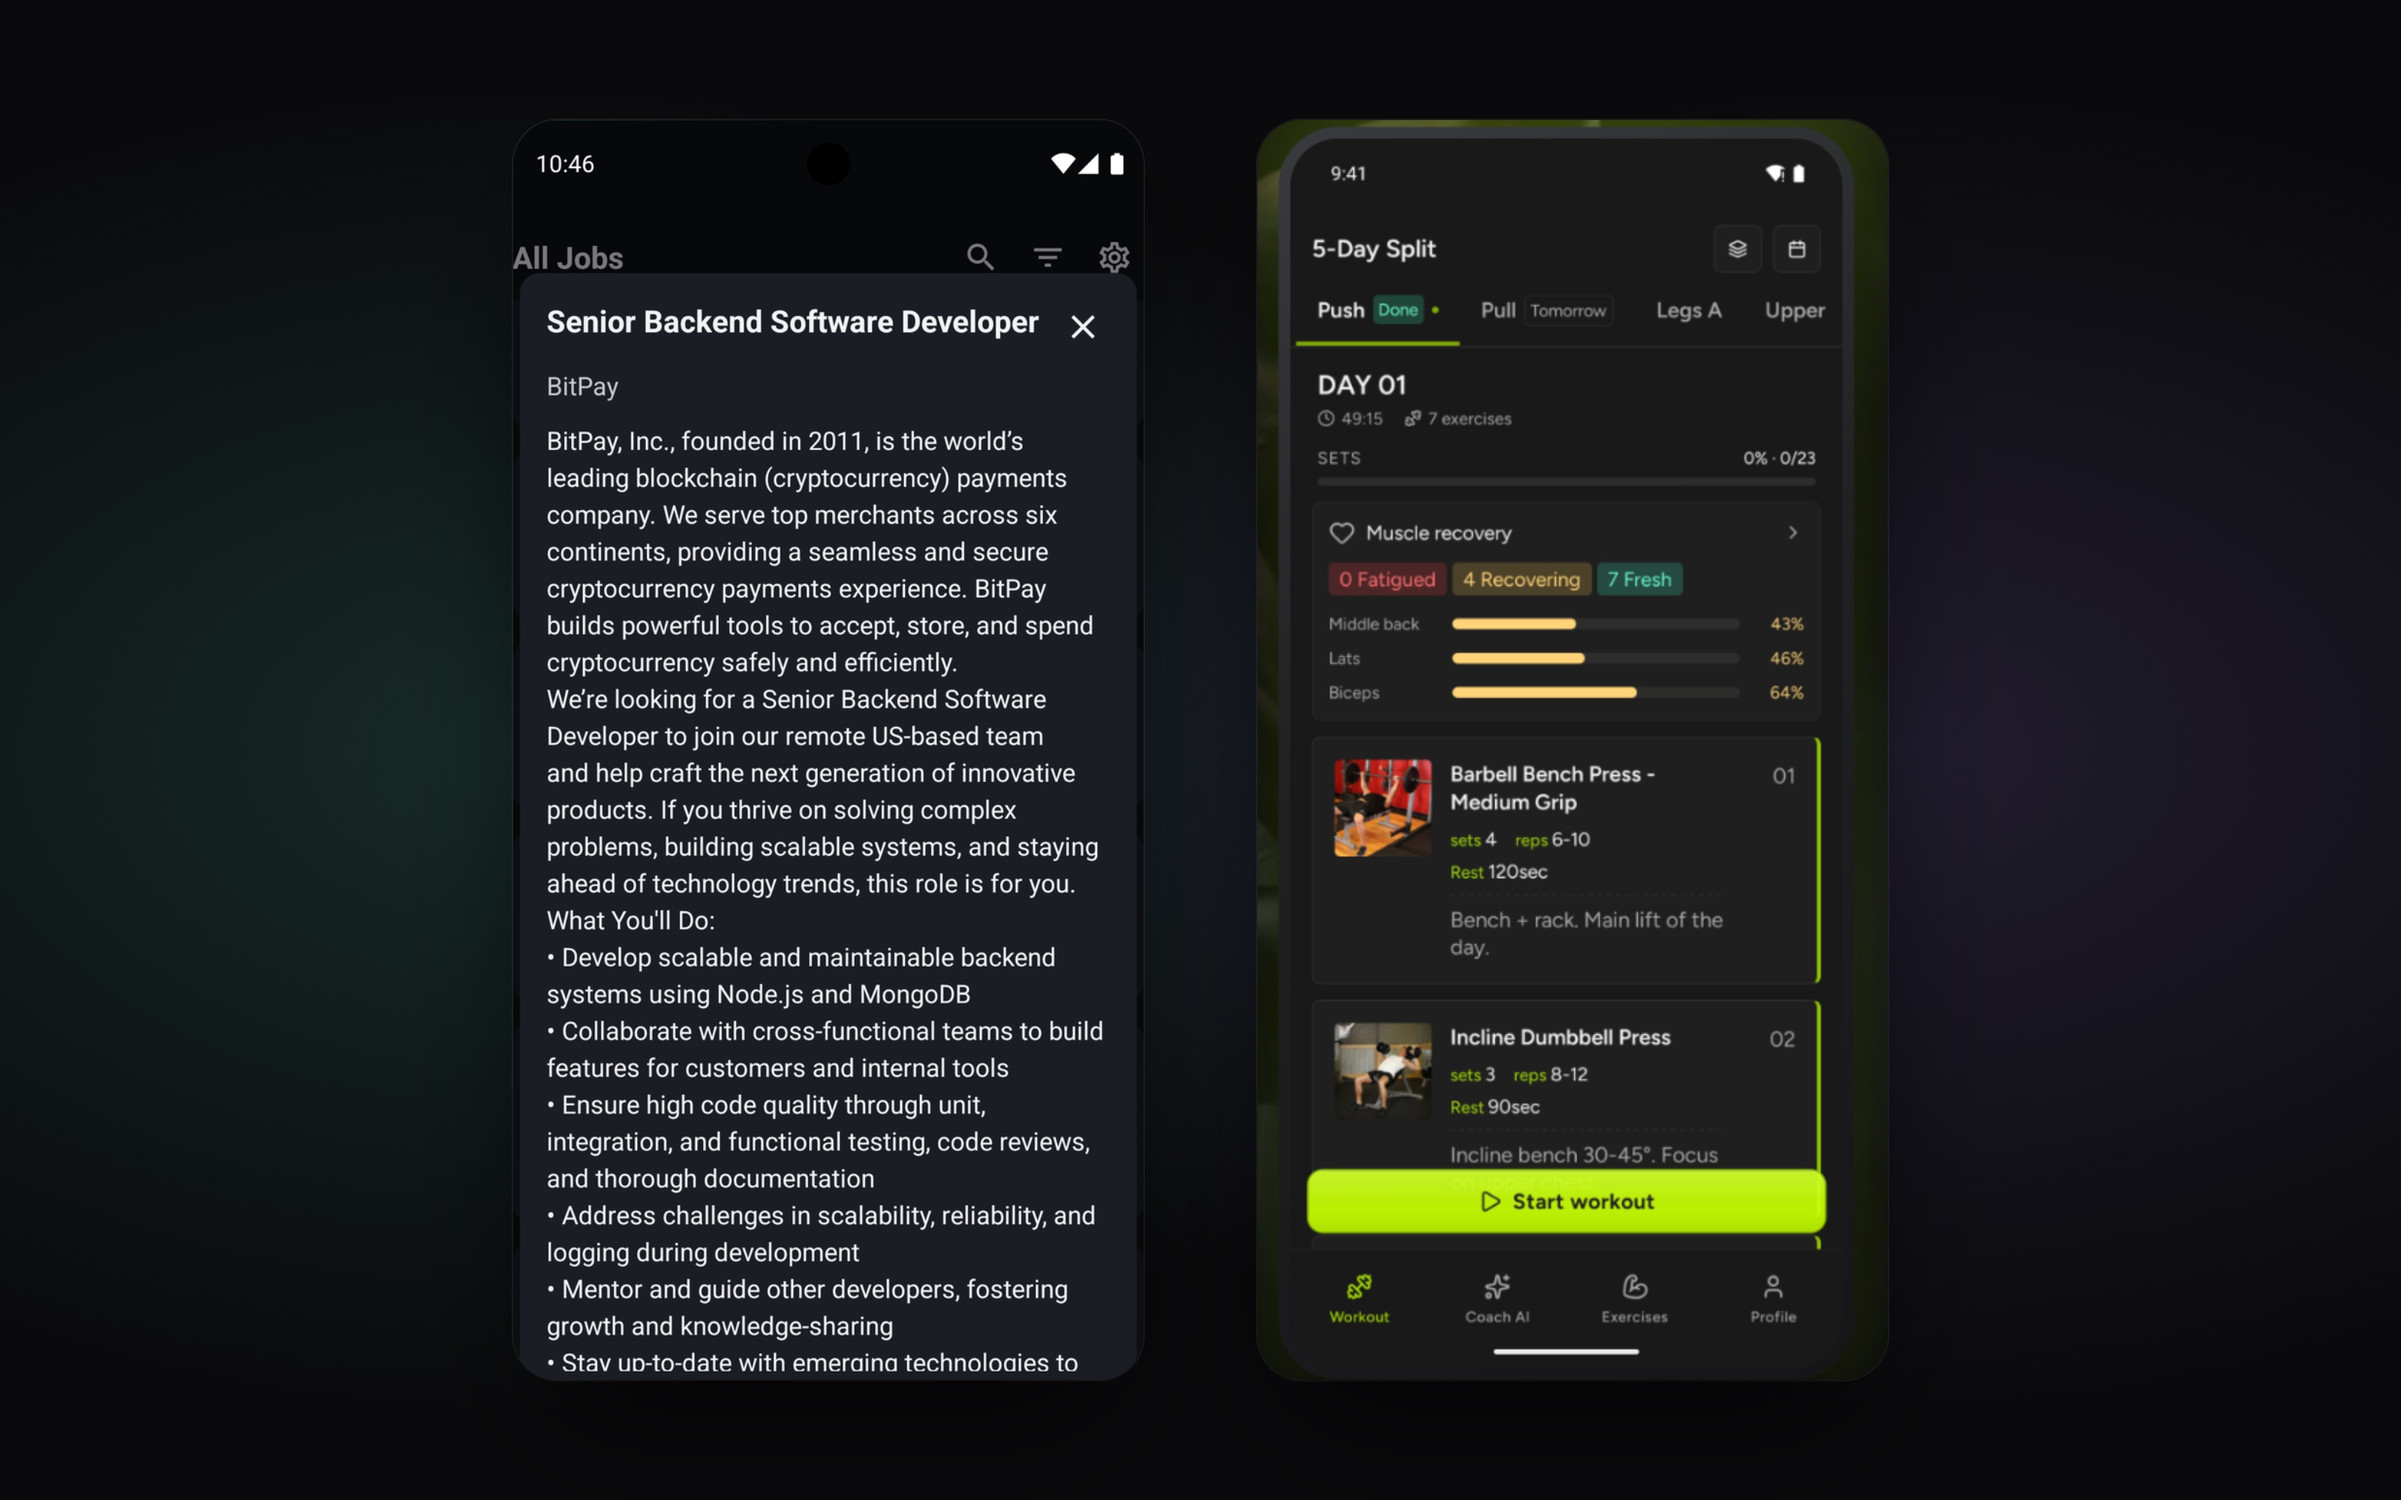
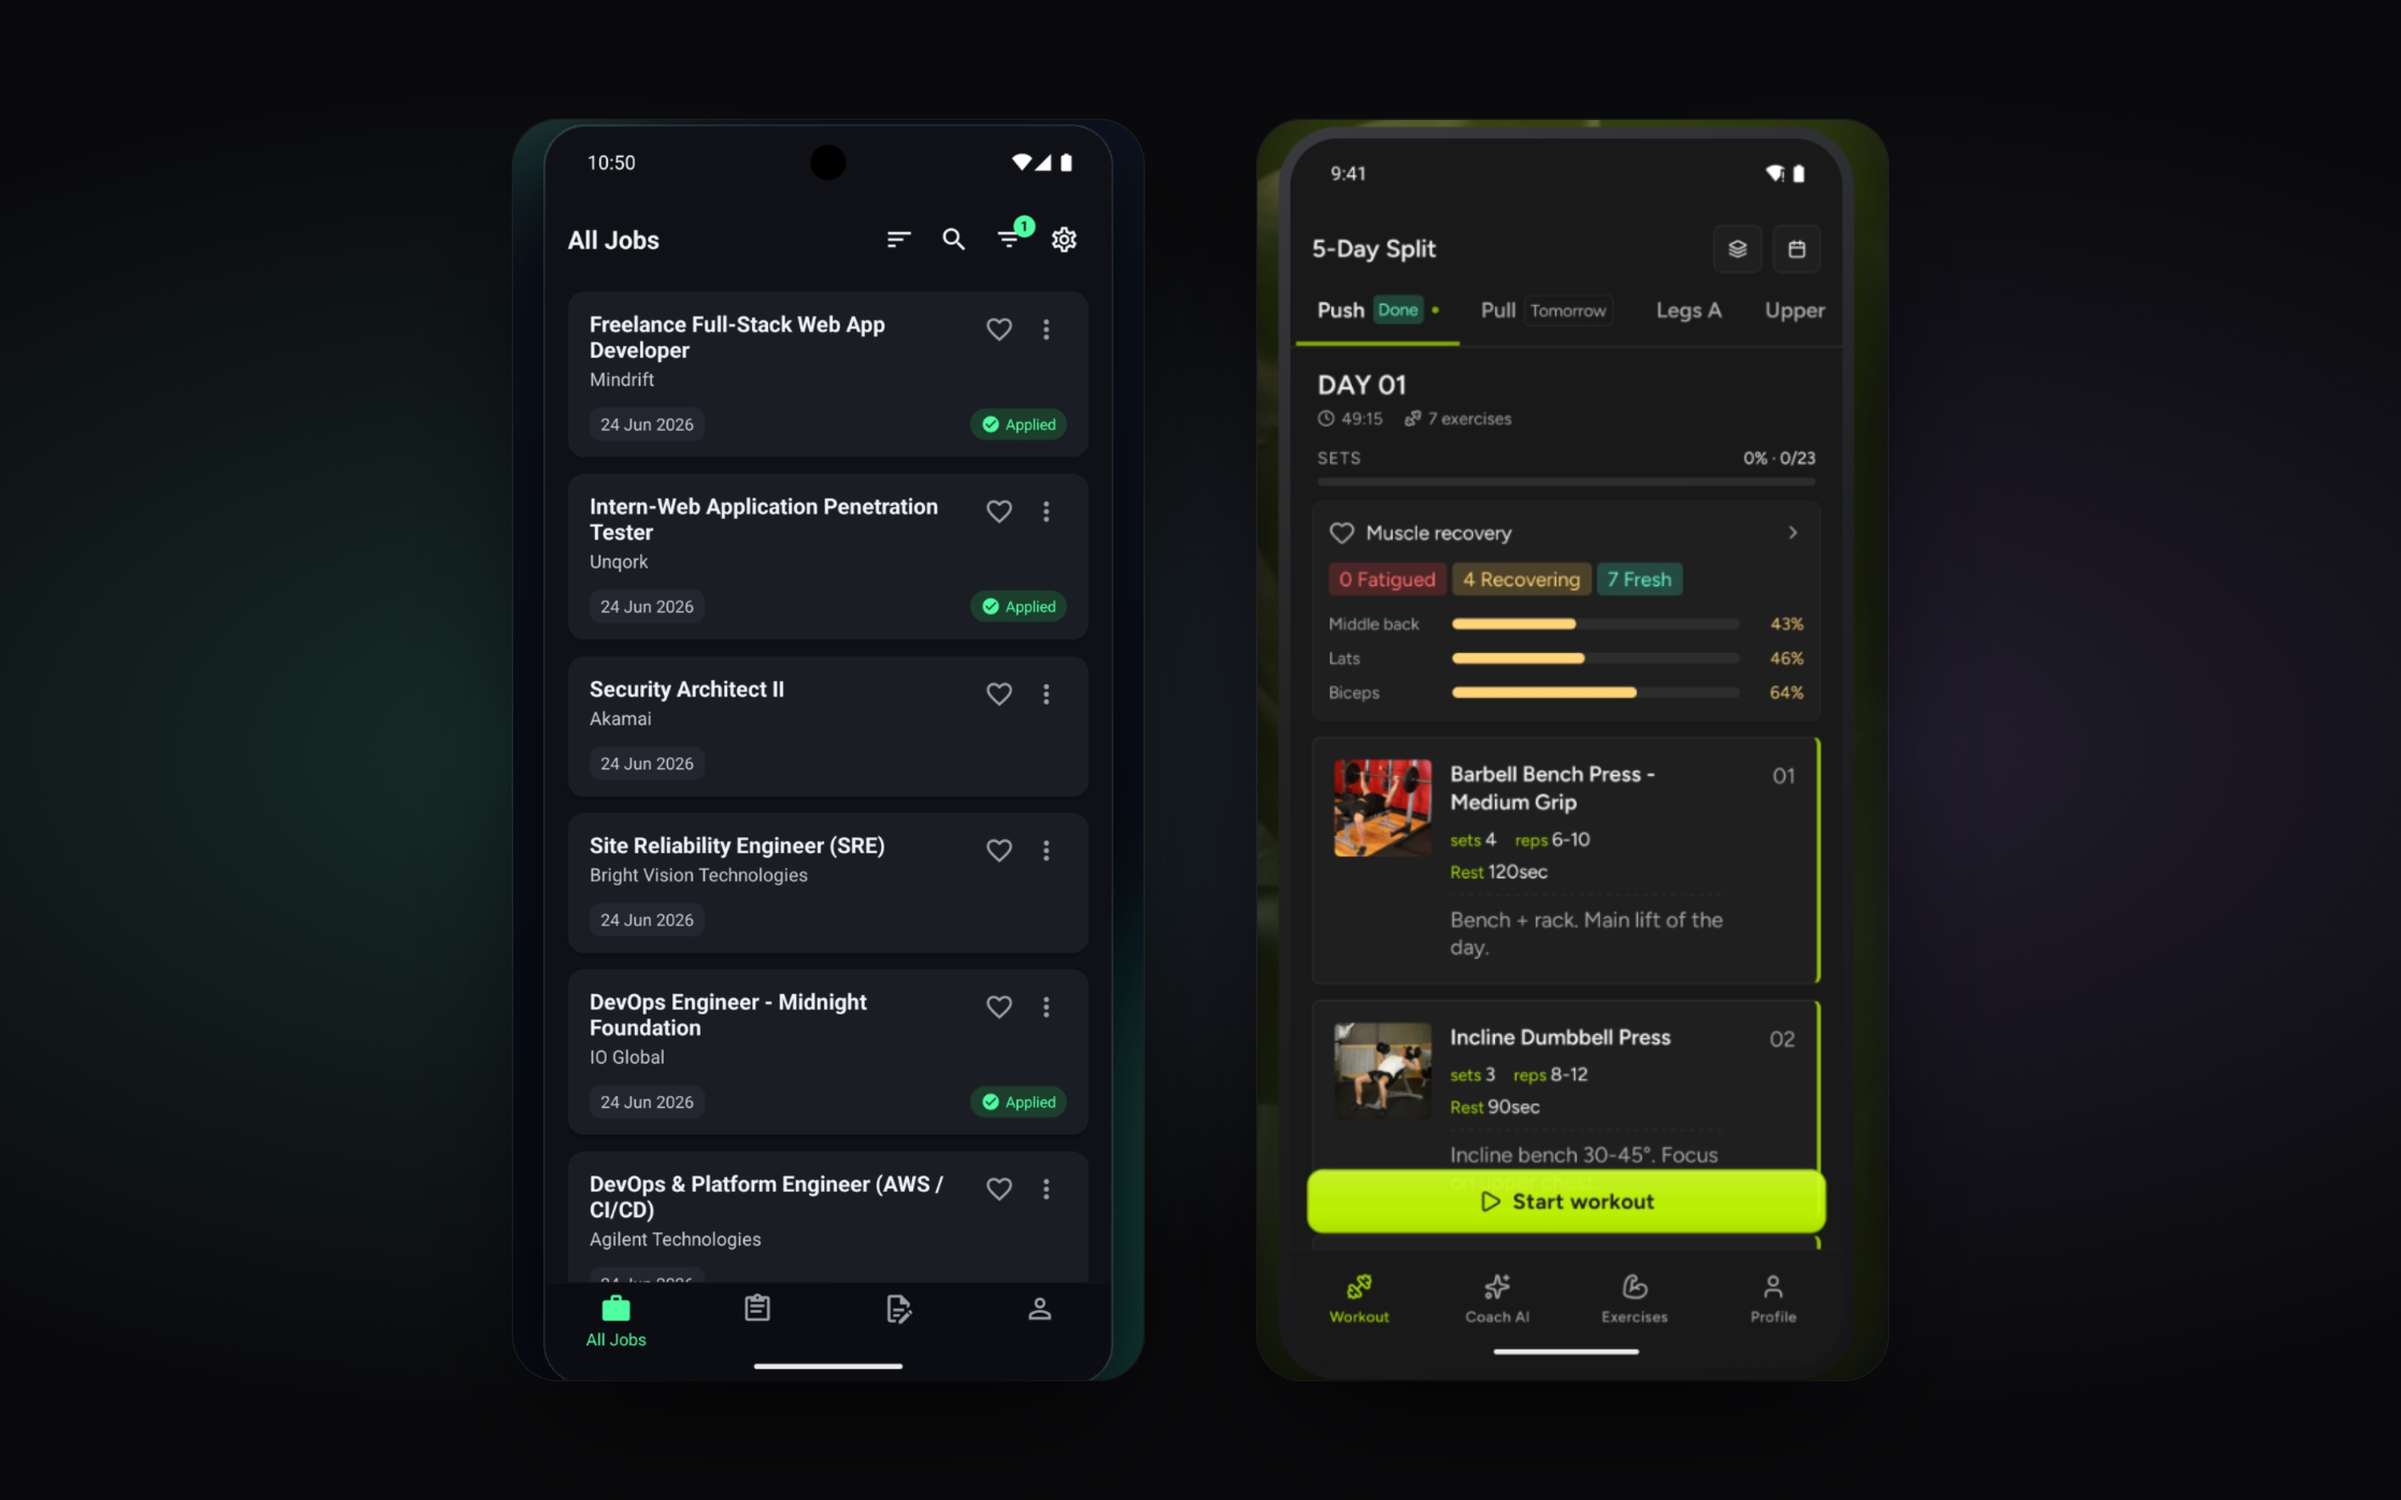
Use the real Remote Work job list instead of the store template
The previous image was a Play Store marketing asset cropped down to the phone,
which still carried the framing of an advert. This is the app's main screen:
the job list, with applied state on the card so you cannot apply twice.

Rebuilt the cover composite around it and eased the crop so the bottom
navigation stays visible on both phones.

Changed region(s): [[0.2188, 0.093, 0.4688, 0.93], [0.1875, 0.062, 0.2812, 0.124]]

diff --git a/content/work/apps.ts b/content/work/apps.ts
@@ -22,7 +22,7 @@ export const apps: WorkEntry = {
 
   cover: {
     src: "/work/apps/cover.jpg",
-    alt: "Remote Work and HeavyMuscle side by side: a job posting opened as a sheet, and a training day with muscle-recovery state above the exercise list",
+    alt: "Remote Work and HeavyMuscle side by side: a filtered job list with applied status on each card, and a training day with muscle-recovery state above the exercise list",
     caption: "Both live on Google Play",
     aspect: "16/10",
   },
@@ -38,8 +38,8 @@ export const apps: WorkEntry = {
       body: "Flows, interface and visual language for a job board and a training log — two products with no patterns in common.",
       media: {
         src: "/work/apps/remotework.jpg",
-        alt: "Remote Work: the full job posting opens as a sheet over the listings, with a single apply action pinned to the bottom",
-        caption: "Remote Work — the whole posting before you decide",
+        alt: "Remote Work job list: each card carries the role, company and date, with a save action, an overflow menu, and an Applied marker once you have applied",
+        caption: "The job list. Applied state sits on the card, so you never apply twice",
         aspect: "9/16",
       },
     },
